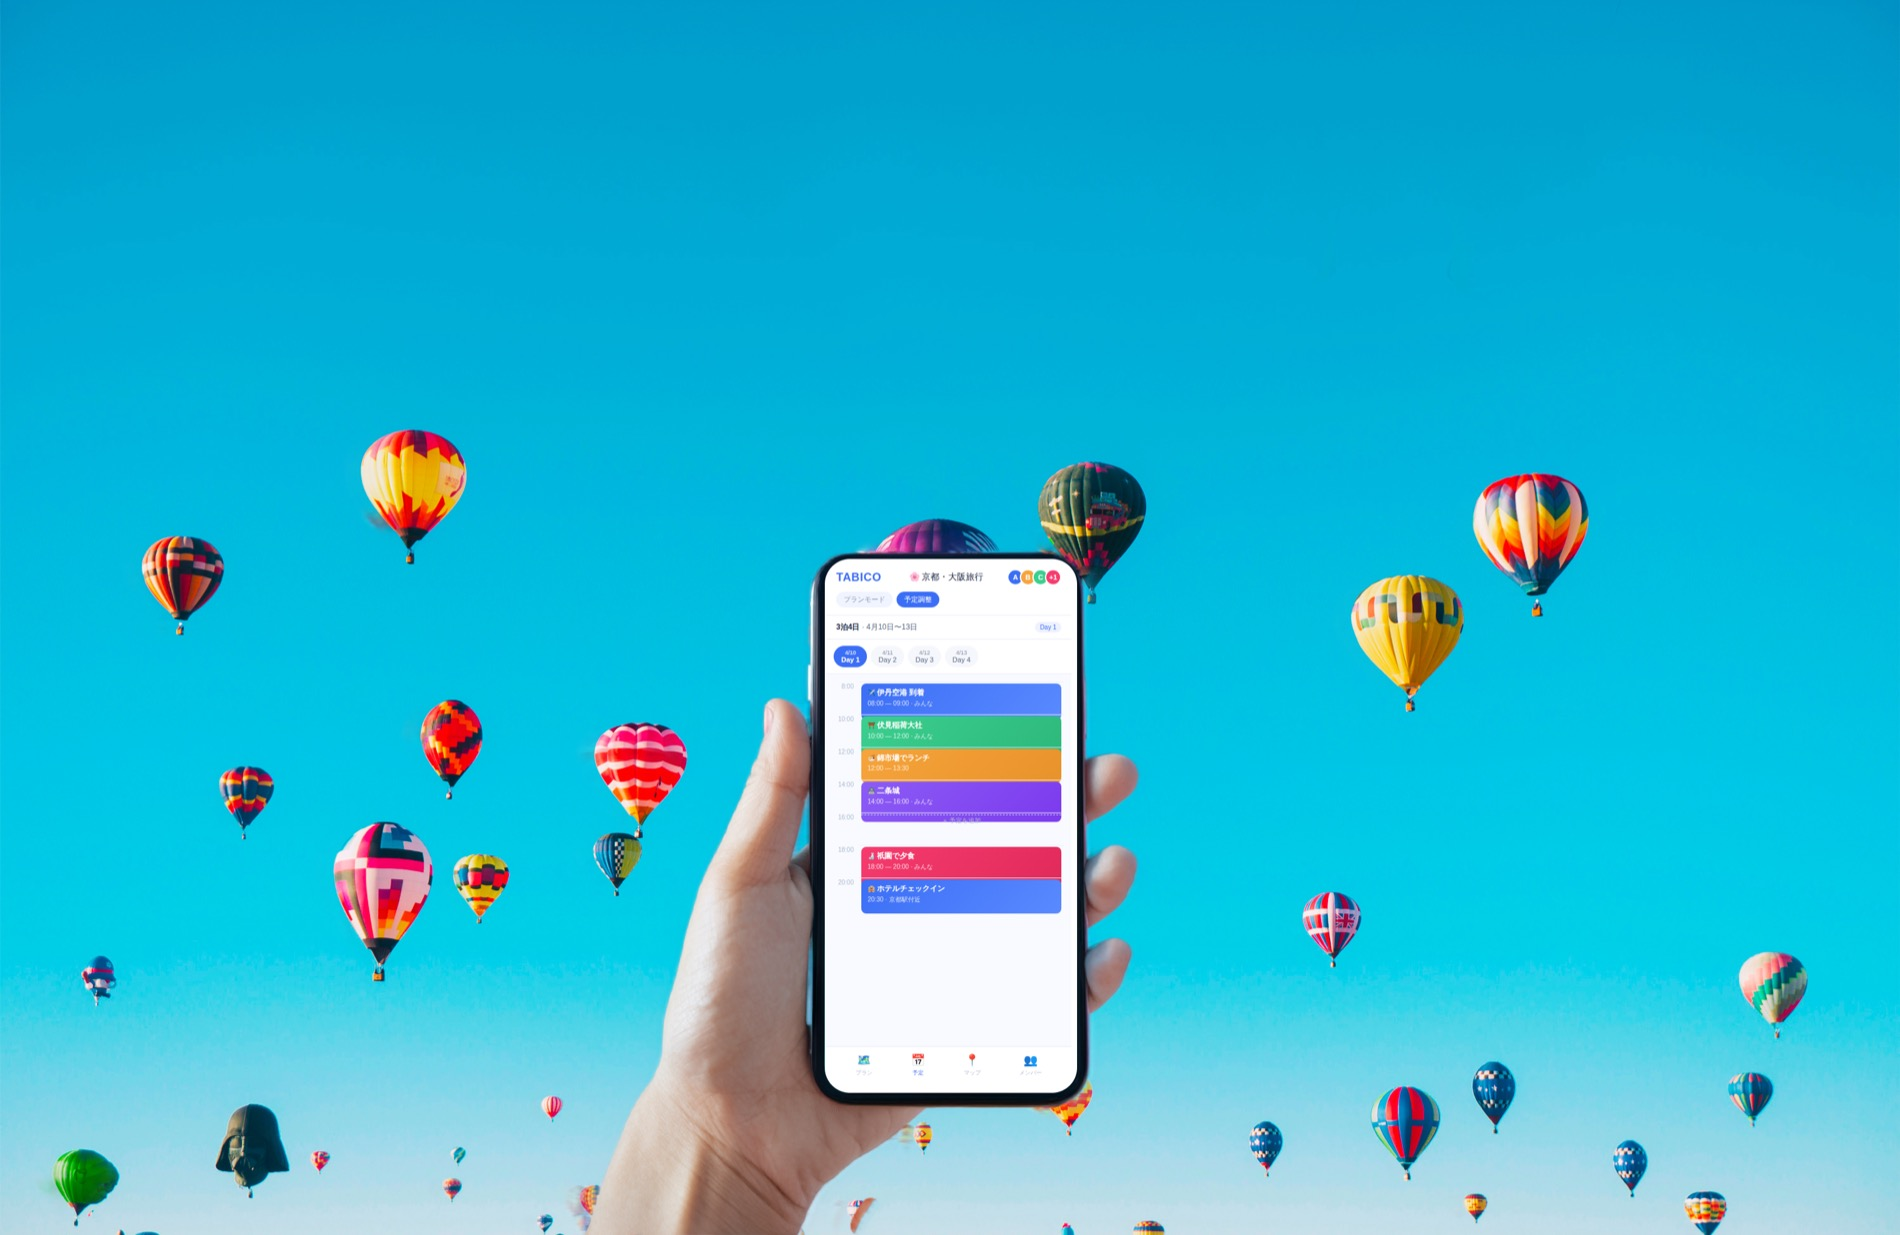
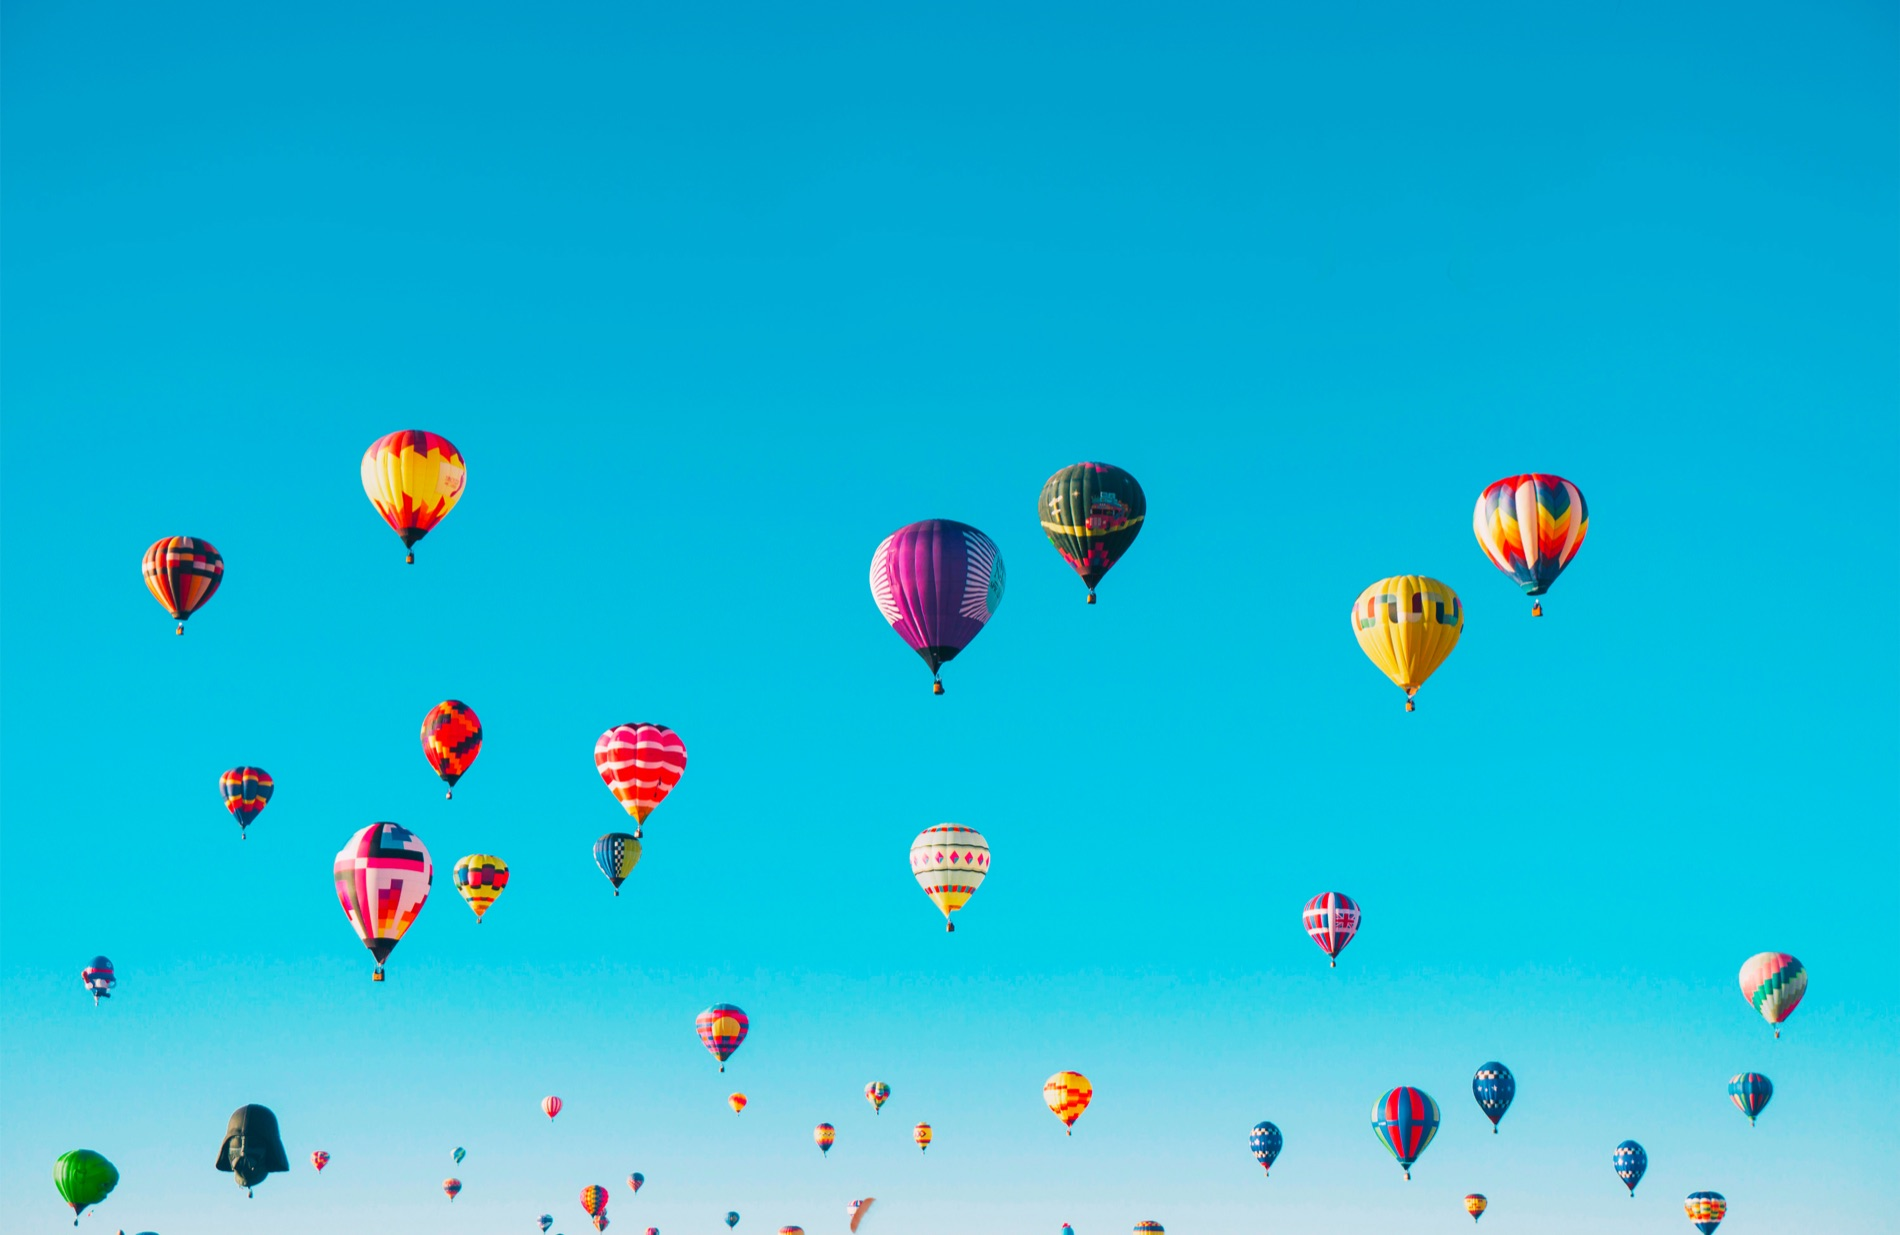
Rebuild MV hero from separated Figma background/smartphone layers
Figma now exports the hero background and the phone mockup as two
separate layers, so re-export both, add the mv_smartphone image as
its own absolutely-positioned element sized in vw (matches the design
ratio at both the PC and SP frame widths), and switch the hero title
and CTA label font sizes to a clamp()+vw fluid scale between the SP
and PC Figma values instead of a hard breakpoint jump.

Changed region(s): [[0.2795, 0.4308, 0.6211, 1.0], [0.3105, 0.5846, 0.3416, 0.6154], [0.1863, 0.4, 0.2174, 0.4308]]

diff --git a/wp-content/themes/cocoon-child-master/scss/lp/components/_hero.scss b/wp-content/themes/cocoon-child-master/scss/lp/components/_hero.scss
@@ -47,14 +47,14 @@
 .lp-hero__title {
   font-family: v.$font-shippori-mincho;
   font-weight: 600;
-  font-size: 80px;
+  // PC(1650px幅)で80px・SP(402px幅)で48pxとなるようclamp+vwで線形補間
+  font-size: clamp(48px, 37.69px + 2.564vw, 80px);
   line-height: 1.3;
   color: v.$color-white;
   margin-top: 160px;
 
   @include m.sp {
     margin-top: 0;
-    font-size: 48px;
     line-height: 1.2;
   }
 }
@@ -66,6 +66,8 @@
 .lp-hero__cta {
   display: inline-flex;
   margin-top: 40px;
+  // PC(1650px幅)で24px・SP(402px幅)で18pxとなるようclamp+vwで線形補間
+  font-size: clamp(18px, 16.07px + 0.4808vw, 24px);
 
   @include m.sp {
     align-items: center;
@@ -74,5 +76,27 @@
     height: 64px;
     margin-top: 32px;
     padding: 0 32px;
+  }
+}
+
+.lp-hero__smartphone {
+  position: absolute;
+  left: 33.21%; // 548 / 1650（mv frame内での相対x）
+  bottom: 0;
+  width: 34.36vw; // 567 / 1650
+  aspect-ratio: 567 / 532;
+  overflow: hidden;
+  pointer-events: none;
+
+  img {
+    width: 100%;
+    height: 100%;
+    object-fit: cover;
+  }
+
+  @include m.sp {
+    left: 1.99%; // 8 / 402
+    width: 85.07vw; // 342 / 402
+    aspect-ratio: 342 / 408;
   }
 }

diff --git a/wp-content/themes/cocoon-child-master/css/lp.css b/wp-content/themes/cocoon-child-master/css/lp.css
@@ -321,7 +321,7 @@ ol {
 .lp-hero__title {
   font-family: "Shippori Mincho", serif;
   font-weight: 600;
-  font-size: 80px;
+  font-size: clamp(48px, 37.69px + 2.564vw, 80px);
   line-height: 1.3;
   color: #fff;
   margin-top: 160px;
@@ -329,7 +329,6 @@ ol {
 @media screen and (max-width: 768px) {
   .lp-hero__title {
     margin-top: 0;
-    font-size: 48px;
     line-height: 1.2;
   }
 }
@@ -341,6 +340,7 @@ ol {
 .lp-hero__cta {
   display: inline-flex;
   margin-top: 40px;
+  font-size: clamp(18px, 16.07px + 0.4808vw, 24px);
 }
 @media screen and (max-width: 768px) {
   .lp-hero__cta {
@@ -350,6 +350,28 @@ ol {
     height: 64px;
     margin-top: 32px;
     padding: 0 32px;
+  }
+}
+
+.lp-hero__smartphone {
+  position: absolute;
+  left: 33.21%;
+  bottom: 0;
+  width: 34.36vw;
+  aspect-ratio: 567/532;
+  overflow: hidden;
+  pointer-events: none;
+}
+.lp-hero__smartphone img {
+  width: 100%;
+  height: 100%;
+  object-fit: cover;
+}
+@media screen and (max-width: 768px) {
+  .lp-hero__smartphone {
+    left: 1.99%;
+    width: 85.07vw;
+    aspect-ratio: 342/408;
   }
 }
 

diff --git a/wp-content/themes/cocoon-child-master/template-parts/lp/hero.php b/wp-content/themes/cocoon-child-master/template-parts/lp/hero.php
@@ -5,6 +5,7 @@
 if ( !defined( 'ABSPATH' ) ) exit;
 
 $lp_hero_image = get_stylesheet_directory_uri() . '/assets/images/lp/hero-photo.jpg';
+$lp_hero_smartphone_image = get_stylesheet_directory_uri() . '/assets/images/lp/hero-smartphone.png';
 ?>
 <section class="lp-hero" style="background-image: url(<?php echo esc_url( $lp_hero_image ); ?>);">
   <?php get_template_part( 'template-parts/lp/header' ); ?>
@@ -13,5 +14,8 @@ $lp_hero_image = get_stylesheet_directory_uri() . '/assets/images/lp/hero-photo.
       友達と、一緒に<span class="lp-hero__title-accent">“旅’’</span>をつくろう。
     </h1>
     <a class="lp-hero__cta lp-button lp-button--large" href="#">まずは無料でお試し</a>
+  </div>
+  <div class="lp-hero__smartphone">
+    <img src="<?php echo esc_url( $lp_hero_smartphone_image ); ?>" alt="">
   </div>
 </section>